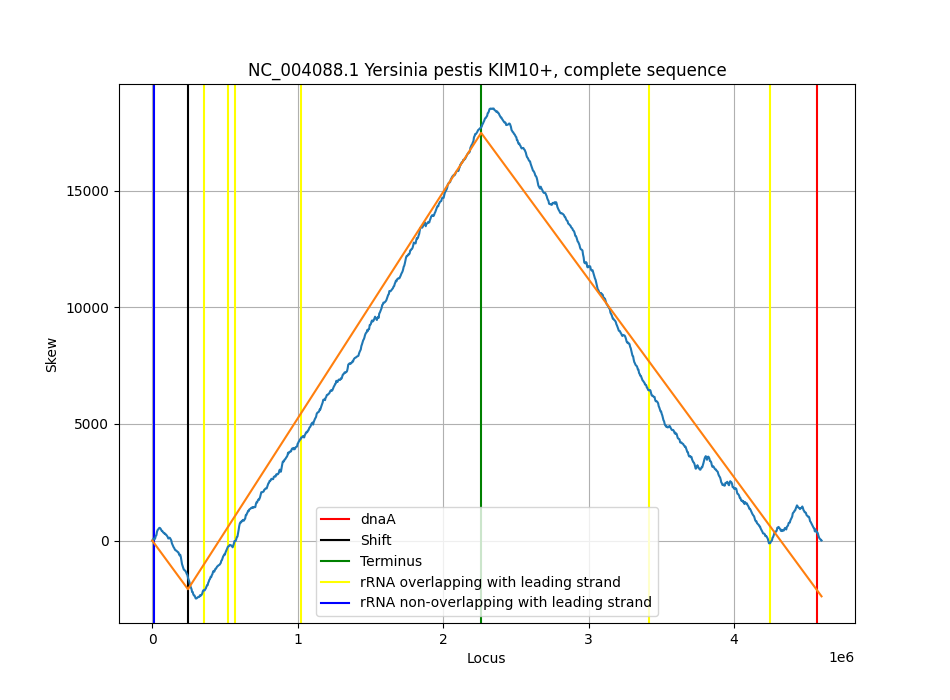
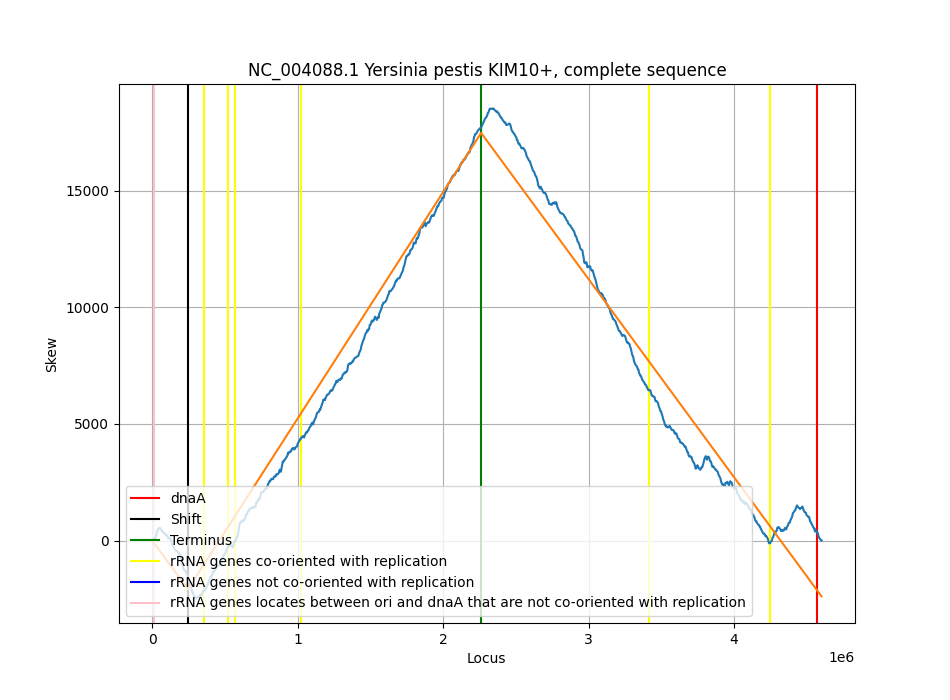
updated plots.py

diff --git a/plots.py b/plots.py
@@ -16,49 +16,13 @@ import matplotlib.pyplot as plt
 import matplotlib.lines as mlines
 plt.rcParams['figure.figsize'] = [9.5, 7]
 
-# Create test csv output files for chromosomes and rRNAs
-rRNAs= {
-    'rRNA':["rRNA1","rRNA2","rRNA3","rRNA4","rRNA5", "rRNA6"],
-    'accession_number' :["NC_006300.1","NC_006300.1","NC_006300.1","NC_006300.1","NC_006300.1","NC_006300.1"],
-    'locus_tag':["string","string","string","string","string", "string"],
-    'start':["149532", "401649", "813443", "1721185", "2233936", "2312119"],
-    'stop':["151076", "403192", "814986", "1722728", "2235480", "2313662"],
-    'strand':["1", "1", "1", "-1", "-1", "1"],
-    'co-oriented':[True, True, True, False, False, True],
-    'dist_to_ori':[1, 2, 3, 4, 5, 6],
-    'betn_dnaA_ori':[False, False, False, False, False, False]
-          }
+# Read csv output files for chromosomes and rRNAs
+
 df_rRNA = pd.read_csv("C:/Ashwini/Applied_bioinformatics/rRNA.csv")
 #df_rRNA.to_csv("C:/Ashwini/Applied_bioinformatics/rRNA.csv")
-#print(df_rRNA)
-
-chromosomes = {
-    'accession_number':["NC_006300.1"],
-    'name':["NC_006300.1 [Mannheimia] succiniciproducens MBEL55E, complete sequence"],
-    'shift':["47556"],
-    'div':["0.416"],
-    'siz':["2314077"],
-    'dnaA':["1"],
-    'taxid':["221988"],
-    'realm1':["Bacteria"],
-    'realm2':["Proteobacteria"],
-    'realm3':["Gammaproteobacteria"],
-    'realm4':["Pasteurellales"],
-    'realm5':["Pasteurellaceae"],
-    'Ori':["47557"],
-    'Ter':["1009102"],
-    'lead1':["[47557, 1009102)"],
-    'lead2':[""],
-    'lagg1':["[1009102, 2314077]"],
-    'lagg2':["[1, 47557)"],
-    'dist_dnaa_ori':["1"],
-    'fraction':["5/6"],
-    'median':["100"]
-}
 #df_chromo = pd.DataFrame(chromosomes)
 #df_chromo.to_csv("C:/Ashwini/Applied_bioinformatics/chromosome.csv")
-df_chromo = pd.read_csv("C:/Ashwini/Applied_bioinformatics/chromosome.csv")
-print(df_chromo)
+df_chromo = pd.read_csv("C:/Ashwini/Applied_bioinformatics/chromosomes.csv")
 
 #Declaring lists used
 accession=[]
@@ -69,23 +33,27 @@ stop_compliment = []
 unique_acc_rrna = []
 gcfits_accession = []
 new_csv_files = []
-temp_rrna =[]
-temp_num = []
-temp_non_rrna =[]
-temp_non_num = []
+#temp_rrna =[]
+#temp_num = []
+#temp_non_rrna =[]
+#temp_non_num = []
+betn_ori_dnaA = []
+unique_orient = []
+taxa_non_orient = []
 
+# Creating new dataframe
 for file in range(len(df_rRNA)):
-    accession.append(df_rRNA.loc[file,"accession_number"])
-    new_df = pd.DataFrame(accession, columns=["accession_number"])
+    accession.append(df_rRNA.loc[file,"name"])
+    new_df = pd.DataFrame(accession, columns=["name"])
 
-print(new_df)
+#print(new_df)
 
 #Read data from rRNA file and check whether rRNA is co-oriented or not
 for file in range(len(df_rRNA)):
-    rrna.append(df_rRNA.loc[file,"rRNA"])    
-    orient.append(df_rRNA.loc[file,"co-oriented"])   
-    print(file)
-    if df_rRNA.loc[file,"co-oriented"] == False:     
+    betn_ori_dnaA.append(df_rRNA.loc[file,"between_dnaA_ori"])    
+    orient.append(df_rRNA.loc[file,"co-orient"])   
+    #print(file)
+    if df_rRNA.loc[file,"co-orient"] == False:     
         if df_rRNA.loc[file, "strand"] == "1":
             start_regular.append(df_rRNA.loc[file, "start"])
         else:
@@ -95,98 +63,110 @@ for file in range(len(df_rRNA)):
             start_regular.append(df_rRNA.loc[file, "start"])
         else:     
             start_regular.append(df_rRNA.loc[file, "stop"])      
-new_df["rRNA"] = rrna 
-new_df["co-oriented"] = orient
+#new_df["rRNA"] = rrna 
+new_df["co-orient"] = orient
 new_df["rRNAPos"] = start_regular
+new_df["between_dnaA_ori"] = betn_ori_dnaA 
 
-print(start_regular)
-#print(stop_compliment)
-print(new_df)
+#checking accession numbers where atleast one rrna is not oriented with replication
+df_orient = new_df.loc[new_df["co-orient"] == False, ["name"]]
+for ind in df_orient.index:
+    unique_orient.append(df_orient["name"][ind])
+
+unique_orient = list(dict.fromkeys(unique_orient))
+print(len(unique_orient))
+print("accession numbers of rrna that is not co-oriented")
+print(unique_orient)
 
 #Fetching unique accession numbers from new_df dataframe 
-unique_acc_rrna = new_df["accession_number"].unique()
+unique_acc_rrna = new_df["name"].unique()
+#unique_acc_rrna = new_df["name"].unique()
+#print("unique acc numbers from rrna output file")
+print(len(unique_acc_rrna))
 
 #Creating path from csv_path
 csv_path = "C:/Ashwini/Applied_bioinformatics/FilteredDataFile.csv"
 file_path = csv_path.rstrip("FilteredDataFile.csv")
 gcfit_path = file_path + "gcfits\\"
-print(gcfit_path)
+#print(gcfit_path)
 
 # Get CSV files list from a gcfit folder
 csv_files = glob.glob(gcfit_path + "*.csv")
-print(csv_files[1])
+#print(csv_files[1])
 
 # Get only accession numbers from the file names
-for i in range(len(csv_files)):
-    s = csv_files[i]
-    st = s.replace("C:/Ashwini/Applied_bioinformatics/gcfits", "")
+for fil in csv_files:
+    st = fil.replace(gcfit_path, "")
     st = st.lstrip("\ ")
     st = st.rstrip("_fit.csv")
     gcfits_accession.append(st)
-print(gcfits_accession[1])
+#print(gcfits_accession[1])
 
 #Matching accession numbers of rrna output files with gcfit csv files
 for fil in csv_files:
     st = fil.replace(gcfit_path, "")
     st = st.lstrip("\ ")
     st = st.rstrip("_fit.csv")
-    if st in unique_acc_rrna:
+    if st in unique_orient:
         new_csv_files.append(st)
 print(new_csv_files)
 
 #plotting graph for matched accession numbers
 for acc_num in new_csv_files:
-    print(acc_num)
+    #print(acc_num)
     full_path = gcfit_path + acc_num + "_fit.csv"
     df = pd.read_csv(full_path)
-    us=new_df[new_df.accession_number==acc_num]
-    chromo = df_chromo[df_chromo.accession_number==acc_num]
+    us=new_df[new_df.name==acc_num]
+    chromo = df_chromo[df_chromo.name==acc_num]
+    #Fetching taxanomical details (realm2-phylum, realm3-class)
+    taxon = chromo["realm2"].item()
+    taxa_non_orient.append(taxon)
     #Creating new dataframe for the rrnas for the accession number
-    df_rrna_plot = new_df.loc[new_df["accession_number"] == acc_num,["accession_number","rRNA", "co-oriented", "rRNAPos"]]
-    
-    print(df_rrna_plot)
+    df_rrna_plot = new_df.loc[new_df["name"] == acc_num,["name","between_dnaA_ori", "co-orient", "rRNAPos"]]
+    #print(df_rrna_plot)
+
     # for marking rrna
     for ind in df_rrna_plot.index:
-        if df_rrna_plot["co-oriented"][ind] == True:
+        if df_rrna_plot["co-orient"][ind] == True:
             mark_rrna = df_rrna_plot["rRNAPos"][ind]
             #temp_rrna.append(mark_rrna)
             #num_rrna = df_rrna_plot.loc[row,"rRNA"]
             #temp_num.append(num_rrna)
             plt.axvline(int(mark_rrna), ls='-', color='yellow')
         else:
-            print("not co-oriented")
-            non_overlap_rrna = df_rrna_plot["rRNAPos"][ind]
-            #temp_non_rrna.append(non_overlap_rrna)
-            #non_overlap_num = df_rrna_plot.loc[row,"rRNA"]
-            #temp_non_num.append(non_overlap_num)
-            plt.axvline(int(non_overlap_rrna), ls='-', color='blue')
-    print(mark_rrna)
+            if df_rrna_plot["between_dnaA_ori"][ind] == False:
+                non_overlap_rrna = df_rrna_plot["rRNAPos"][ind]
+                plt.axvline(int(non_overlap_rrna), ls='-', color='blue')
+            else:
+                non_overlap_rrna = df_rrna_plot["rRNAPos"][ind]
+                plt.axvline(int(non_overlap_rrna), ls='-', color='pink')
+    
     # for marking shift
-    print(chromo)
+    #print(chromo)
     leshift=chromo["shift"].item()
-    print(leshift)
+    #print(leshift)
     if int(leshift) > 0:
         plt.axvline(int(leshift), ls='-', color='black')
     else:
         plt.axvline(df.pos.max() + int(leshift), ls='-', color='black')
     # for marking dnaA pos
-    dnaApos=chromo["dnaA"].item()
-    print(dnaApos)
+    dnaApos=chromo["dnaApos"].item()
+    #print(dnaApos)
     if int(dnaApos) > 0:
         plt.axvline(int(dnaApos), ls='-', color='red')
     else:
         plt.axvline(df.pos.max() + int(dnaApos), ls='-', color='red')
     # for marking terminus
     Terminus=chromo["Ter"].item()
-    print(Terminus)
     plt.axvline(int(Terminus), ls='-', color='green')
     #Placing legend
     dnaA = mlines.Line2D([], [], color='red', label='dnaA')
     shift = mlines.Line2D([], [], color='black', label='Shift')
     ter = mlines.Line2D([], [], color='green', label='Terminus')
-    pos_rrna = mlines.Line2D([], [], color='yellow', label='rRNA overlapping with leading strand')
-    pos_non_rrna = mlines.Line2D([], [], color='blue', label='rRNA non-overlapping with leading strand')
-    plt.legend(handles=[dnaA, shift, ter, pos_rrna, pos_non_rrna])
+    pos_rrna = mlines.Line2D([], [], color='yellow', label='rRNA genes co-oriented with replication')
+    pos_non_rrna = mlines.Line2D([], [], color='blue', label='rRNA genes not co-oriented with replication')
+    pos_non_rrna_betn_ori = mlines.Line2D([], [], color='pink', label='rRNA genes locates between ori and dnaA that are not co-oriented with replication')
+    plt.legend(handles=[dnaA, shift, ter, pos_rrna, pos_non_rrna, pos_non_rrna_betn_ori])
 
     # labelling x and y axis
     plt.xlabel("Locus")
@@ -196,11 +176,32 @@ for acc_num in new_csv_files:
     plt.plot(df.pos, df.predgc2skew)
     
     #fixing title
-    plt.title(str(chromo["name"].item()))
+    plt.title(str(chromo["fullname"].item()))
     plt.grid()
     plt.savefig("figures\\"+ str(acc_num) + ".png")
     plt.savefig("D:\\figures\\"+ str(acc_num) + ".png")
     plt.clf()
     #plt.show()
+
+print(taxa_non_orient)
+
+"""df_skewdb = pd.read_csv(csv_path)
+taxa = df_skewdb["realm2"].unique()
+print(taxa)
+
+
+#plotting histogram
+for acc_num in new_csv_files:
+    print(acc_num)
+    chromo_histo = df_chromo[df_chromo.name==acc_num]
+    taxa_1 = chromo_histo["realm4"].unique()
+    print(taxa_1)
+print(taxa_1)
+x_pos = chromo_histo["realm4"].unique()
+plt.hist(taxa_1, bins=50, density=True)
+plt.grid()
+plt.title("Histogram")
+# Show graph
+plt.show() """
 
 
